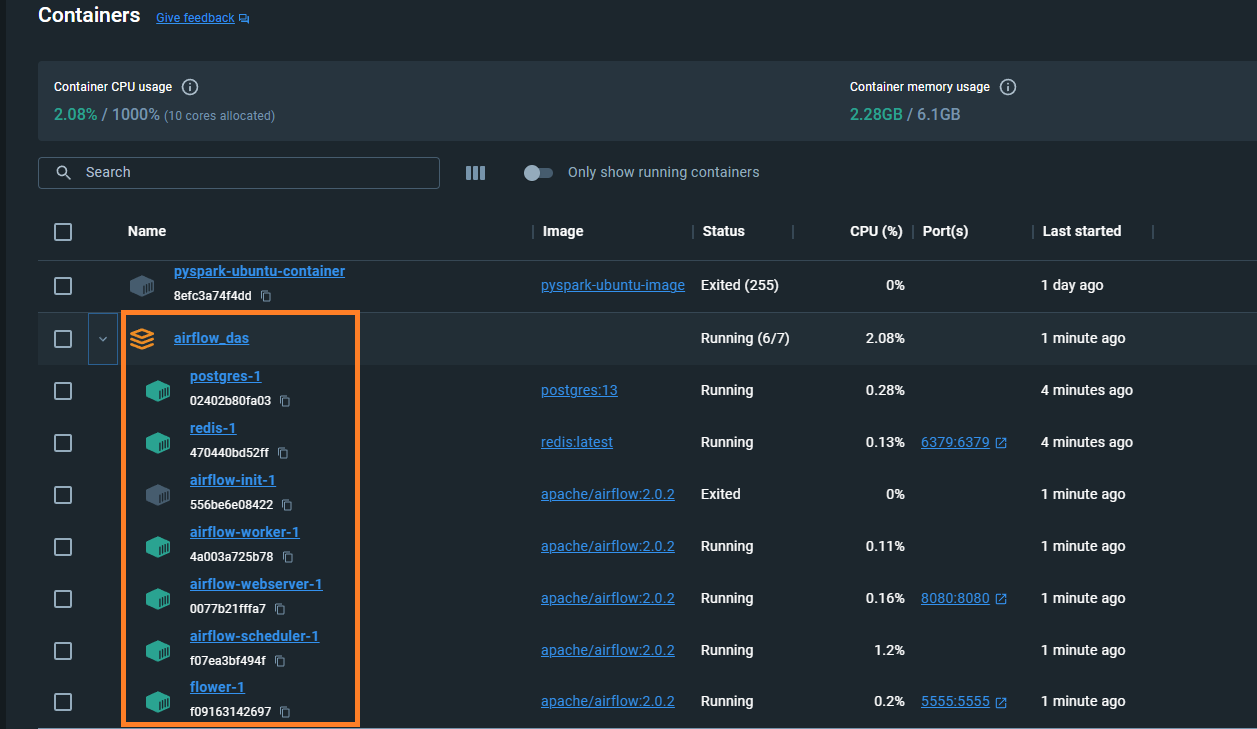
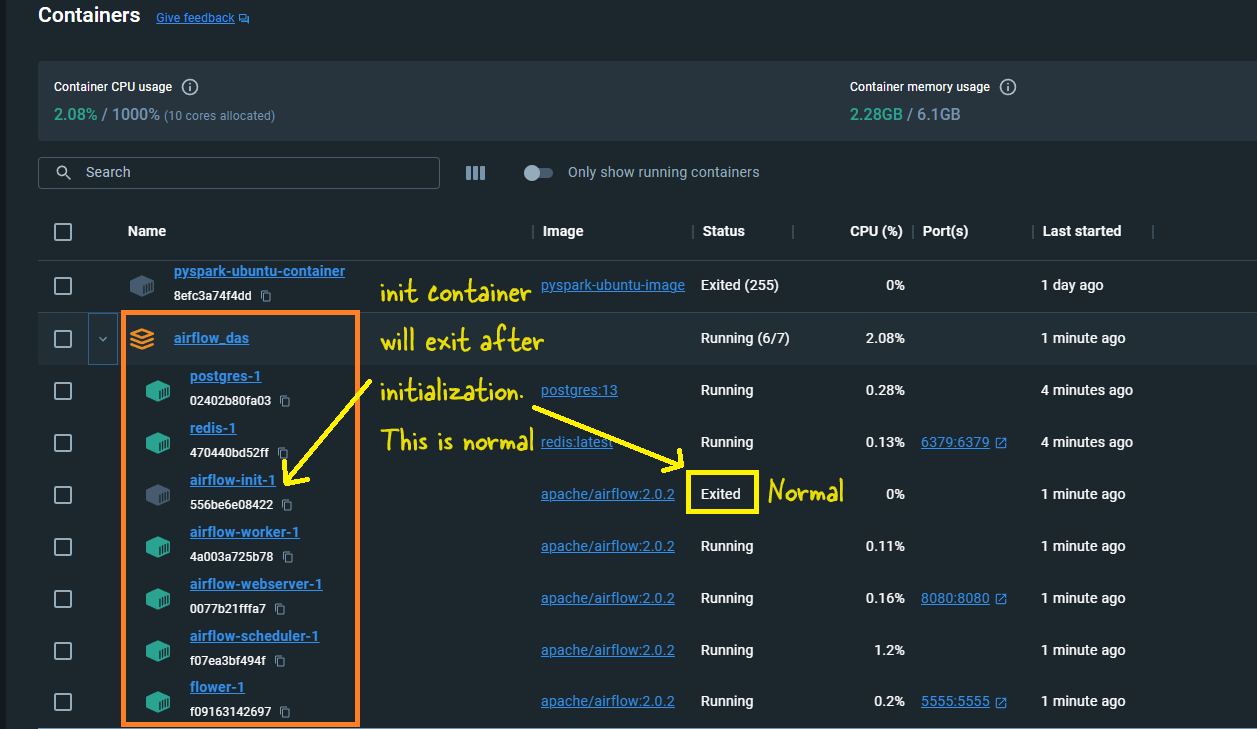
new file:   articles/Airflow/images/2024-08-29-16-24-23.png

diff --git a/articles/Airflow/1.0.0_AirFlow_Concepts.md b/articles/Airflow/1.0.0_AirFlow_Concepts.md
@@ -6,7 +6,7 @@ nav_order: 1
 has_children: false
 ---
 
-What is Airflow(AirBnB + Workflow)?
+## What is Airflow(AirBnB + Workflow)?
 
 Open source **linux-based** workflow engine. Its essentially a job scheduler. But, a very complex job scheduler. The main idea behind Airflow is defining a workflow using a DAG.
 
@@ -22,4 +22,55 @@ Airflow Concepts
 
 https://www.youtube.com/watch?v=lVS6lz5wuH4
 
+
+
+## Airflow core components
+
+The web server: This provides the main web interface for Airflow.
+Scheduler: It schedules the tasks.
+Meta Database: Stores information about the tasks and their status etc.
+Trigger: It triggers tasks
+Executor: How and which syste, to execute the tasks. Doesn't run tasks.
+Queue: List of tasks waiting to be executed
+Worker: Is the process that actually performs the tasks.
+
+
+![](images/2024-08-29-16-40-36.png)
+
+## Airflow Core concepts
+
+DAG: This is the workflow. This is the data pipeline. Dags never contain a loop. It has to be acyclic. No cycles in Dag.
 ![alt text](images/2024-08-09-21-04-12.png)
+
+Operator: Opertor is a task.
+operator. Airflow has thousands of operators. Like Python opereator to operation python code.
+
+How to find operators: Go to astronomer registry.
+
+Tasks/Task Instance: Task is a specific instance of an operator. Actual units of work that gets executed.
+Workflow: The entire process defined by the DAG. The "DAG is the workflow"
+
+## What Airflow is not
+
+Its not a data processing freamework. It can't process large data itself.
+Its not a real-time streming framework. Use Kafka for that
+Its not a data storage system. While it uses some databse for its own work. But, its not a data stroage system
+
+Where airflow might not be a a best solution:
+
+If you want to scheudule something every second. High-frequency scheduling is not good.
+When you want to process large datasets **directly**. Want to process terabytes  of data directly. Airflow  isn't the tool. If you want to do such a thing. Trigger a spark job from Airflow. Let spark do that work. But, you can still process some data in Airlflow. Don't take it as a replacment for Spark.
+Airflow can't process for real-time data processing. Use Kafka insted.
+For simple workflow Airflow is an overkill. Use other systems for that. Like, ADF, cron jobs, Power Automate etc.
+
+## Architectures to learn Airflow
+
+Single-node architecture: All airflow of airlflow runs on one machine.
+
+![](images/2024-08-29-15-52-46.png)
+
+The single node is great for smaller workflow and getting started.
+
+Multi-Node Airflow Architecture
+
+![](images/2024-08-29-16-24-23.png)

diff --git a/articles/DockerAndKubernetes/AirflowDocker/10-AirflowDocker.md b/articles/DockerAndKubernetes/AirflowDocker/10-AirflowDocker.md
@@ -96,6 +96,8 @@ To login open [http://localhost:8080](http://localhost:8080) and enter credentia
 
     <img src="images/image-4.png" alt="Description of the image" style="max-width: 100%; height: auto; border: 1px solid #ddd; border-radius: 4px; box-shadow: 0 4px 8px rgba(0, 0, 0, 0.1);">
 
+> Note: airflow-init-1, init container will exit after initialization. This is the expected, normal, beheviour. Don't panic.
+
 - Open `localhost:8080` in a web browser.
 - Log in with the username and password: `airflow`.
     <img src="images/image-5.png" alt="Description of the image" style="max-width: 100%; height: auto; border: 1px solid #ddd; border-radius: 4px; box-shadow: 0 4px 8px rgba(0, 0, 0, 0.1);">
